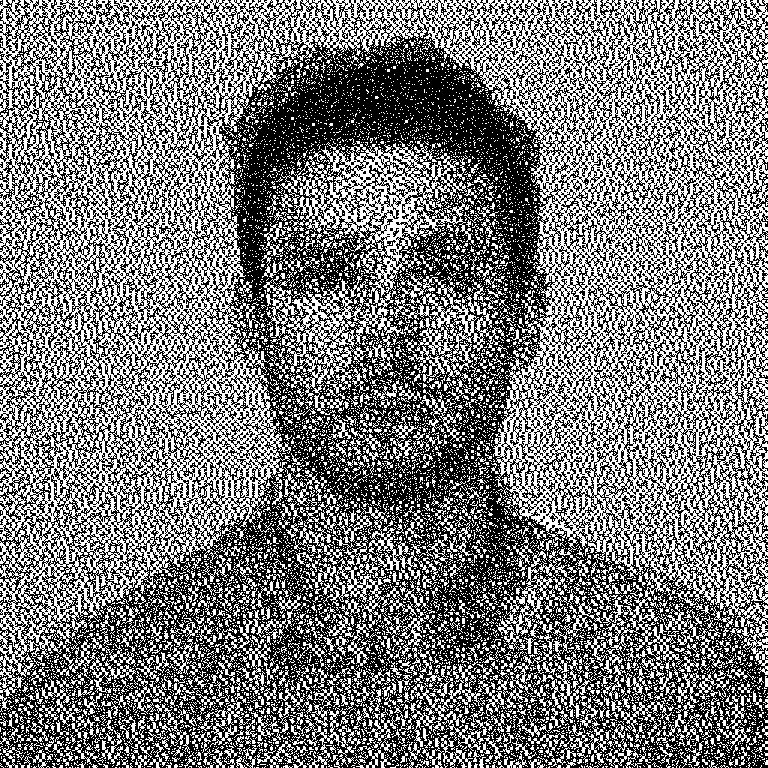
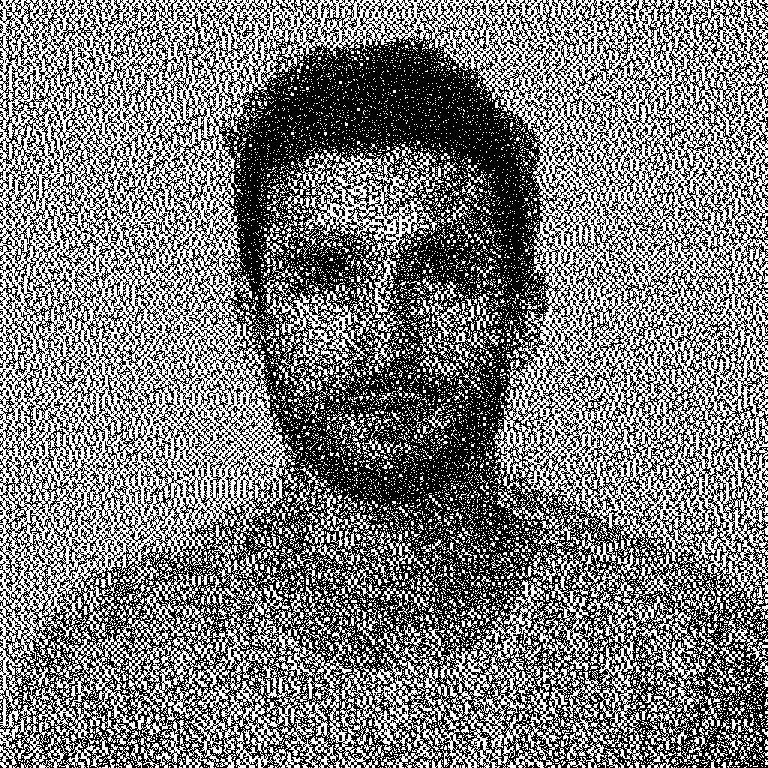
updating using deepface
updating using deepface

diff --git a/biometric_ross.py b/biometric_ross.py
@@ -2,6 +2,7 @@ import os
 import cv2
 import numpy as np
 from typing import List, Tuple
+from deepface import DeepFace
 
 from gevcs_core import (
     floyd_steinberg_halftone,
@@ -9,6 +10,27 @@ from gevcs_core import (
     overlay_shares,
     gevcs_generate_shares_2of3
 )
+# DEEP LEARNING BASED SELECTION
+def face_embedding_from_gray(img_gray: np.ndarray) -> np.ndarray:
+    """
+    img_gray: ảnh mặt đã crop + resize 256x256 grayscale
+    trả về: vector embedding dạng numpy array (ArcFace ~ 512 chiều)
+    """
+    # chuyển grayscale → RGB cho deepface
+    if img_gray.ndim == 2:
+        img_rgb = cv2.cvtColor(img_gray, cv2.COLOR_GRAY2RGB)
+    else:
+        img_rgb = cv2.cvtColor(img_gray, cv2.COLOR_BGR2RGB)
+
+    # lấy embedding, không ép detect vì ảnh đã crop sẵn
+    reps = DeepFace.represent(
+        img_rgb,
+        model_name="ArcFace",        # có thể đổi sang 'Facenet512', 'VGG-Face', ...
+        enforce_detection=False,
+    )
+
+    emb = np.array(reps[0]["embedding"], dtype=np.float32)
+    return emb
 
 def center_crop_square(img: np.ndarray) -> np.ndarray:
     """crop vuông ở giữa ảnh"""
@@ -74,6 +96,37 @@ def select_n_hosts_by_similarity(
     scores.sort(key=lambda x: x[0])
     if len(scores) < n:
         raise ValueError(f"need at least {n} host faces in db")
+    result = []
+    for i in range(n):
+        _, fname, img = scores[i]
+        result.append((fname, img))
+    return result
+## DEEP LEARNING BASED SELECTION
+def select_n_hosts_by_deep(
+    private_face: np.ndarray,
+    db: List[Tuple[str, np.ndarray]],
+    n: int,
+) -> List[Tuple[str, np.ndarray]]:
+    """
+    chọn n host gần private_face nhất theo embedding deep learning
+    db: list (fname, img_gray)
+    """
+    priv_emb = face_embedding_from_gray(private_face)
+    scores = []
+
+    for fname, img in db:
+        try:
+            emb = face_embedding_from_gray(img)
+        except ValueError:
+            # không detect được mặt thì bỏ qua
+            continue
+        d = np.linalg.norm(priv_emb - emb)  # L2 distance
+        scores.append((d, fname, img))
+
+    if len(scores) < n:
+        raise ValueError(f"need at least {n} usable host faces (detected)")
+
+    scores.sort(key=lambda x: x[0])
     result = []
     for i in range(n):
         _, fname, img = scores[i]
@@ -216,7 +269,7 @@ def run_demo(
 
     if scheme == "2of2":
         # chọn 2 host
-        selected = select_n_hosts_by_similarity(private_face, db, 2)
+        selected = select_n_hosts_by_deep(private_face, db, 2)
         (name1, host1), (name2, host2) = selected
         print(f"[2of2] selected hosts: {name1}, {name2}")
 
@@ -276,7 +329,7 @@ def run_demo(
 
     elif scheme == "2of3":
         # cần ít nhất 3 host trong db
-        selected = select_n_hosts_by_similarity(private_face, db, 3)
+        selected = select_n_hosts_by_deep(private_face, db, 3)
         (name1, host1), (name2, host2), (name3, host3) = selected
         print(f"[2of3] selected hosts: {name1}, {name2}, {name3}")
 
